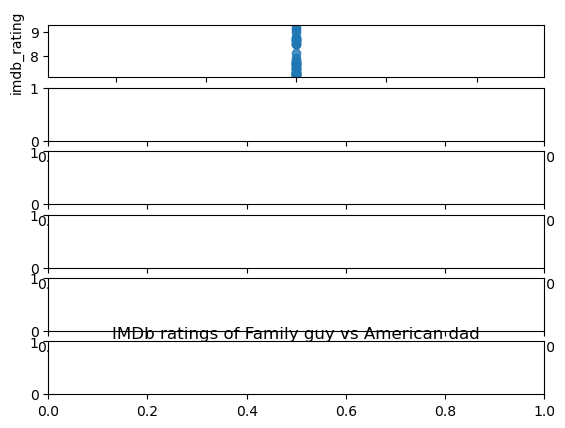
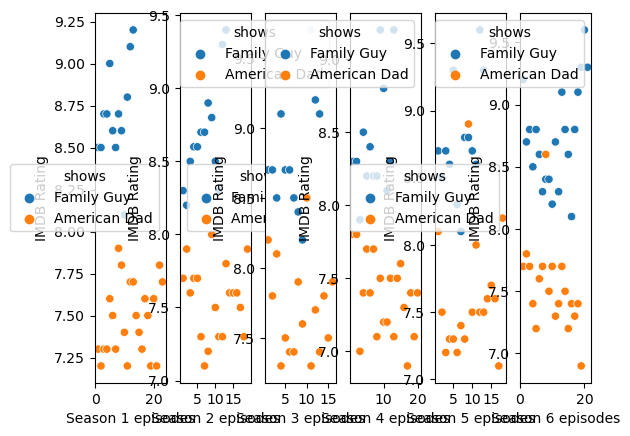
More work done on the graphs

diff --git a/graphs.py b/graphs.py
@@ -30,14 +30,15 @@ class Graphs:
     def multi(self, data1, data2, string1, string2):
         concatenated = pd.concat([data1.assign(shows=string1), data2.assign(shows=string2)])
         concatenated['imdb_rating'] = pd.to_numeric(concatenated['imdb_rating'])
-        concatenated1 = concatenated[concatenated['season']==1]    
-        print(concatenated1)
-        fig, axes = plt.subplots(min(data1['season'].max(),data2['season'].max()))
-        plot = sns.regplot(ax = axes[0], x='season', y='imdb_rating', data = concatenated1)
-        #plot = sns.joinplot(data=concatenated,x="season",y="imdb_rating",hue = "shows")
-        #plot.set_yticklabels([0,1,2,3,4,5,6,7,8,9])
+        seasons = min(data1['season'].max(),data2['season'].max())
+        concatenated["episode_num"] = pd.to_numeric(concatenated["episode_num"], downcast="float")
+        fig, axes = plt.subplots(1,seasons)
+        for i in range(seasons):
+            concatenated1 = concatenated[concatenated['season']==i+1]    
+            plot = sns.scatterplot(ax = axes[i], x='episode_num', y='imdb_rating', data = concatenated1,hue="shows")
+            axes[i].set_xlabel('Season ' + str(i+1) + " episodes")
+            axes[i].set_ylabel('IMDB Rating')
         print(concatenated.columns)
-        title = "IMDb ratings of {} vs {}".format(string1.capitalize(), string2.capitalize())
-        plt.title(title, pad = 0.2)
+
         plt.savefig('scatter2.png', bbox_inches = 'tight')
         plt.show()
